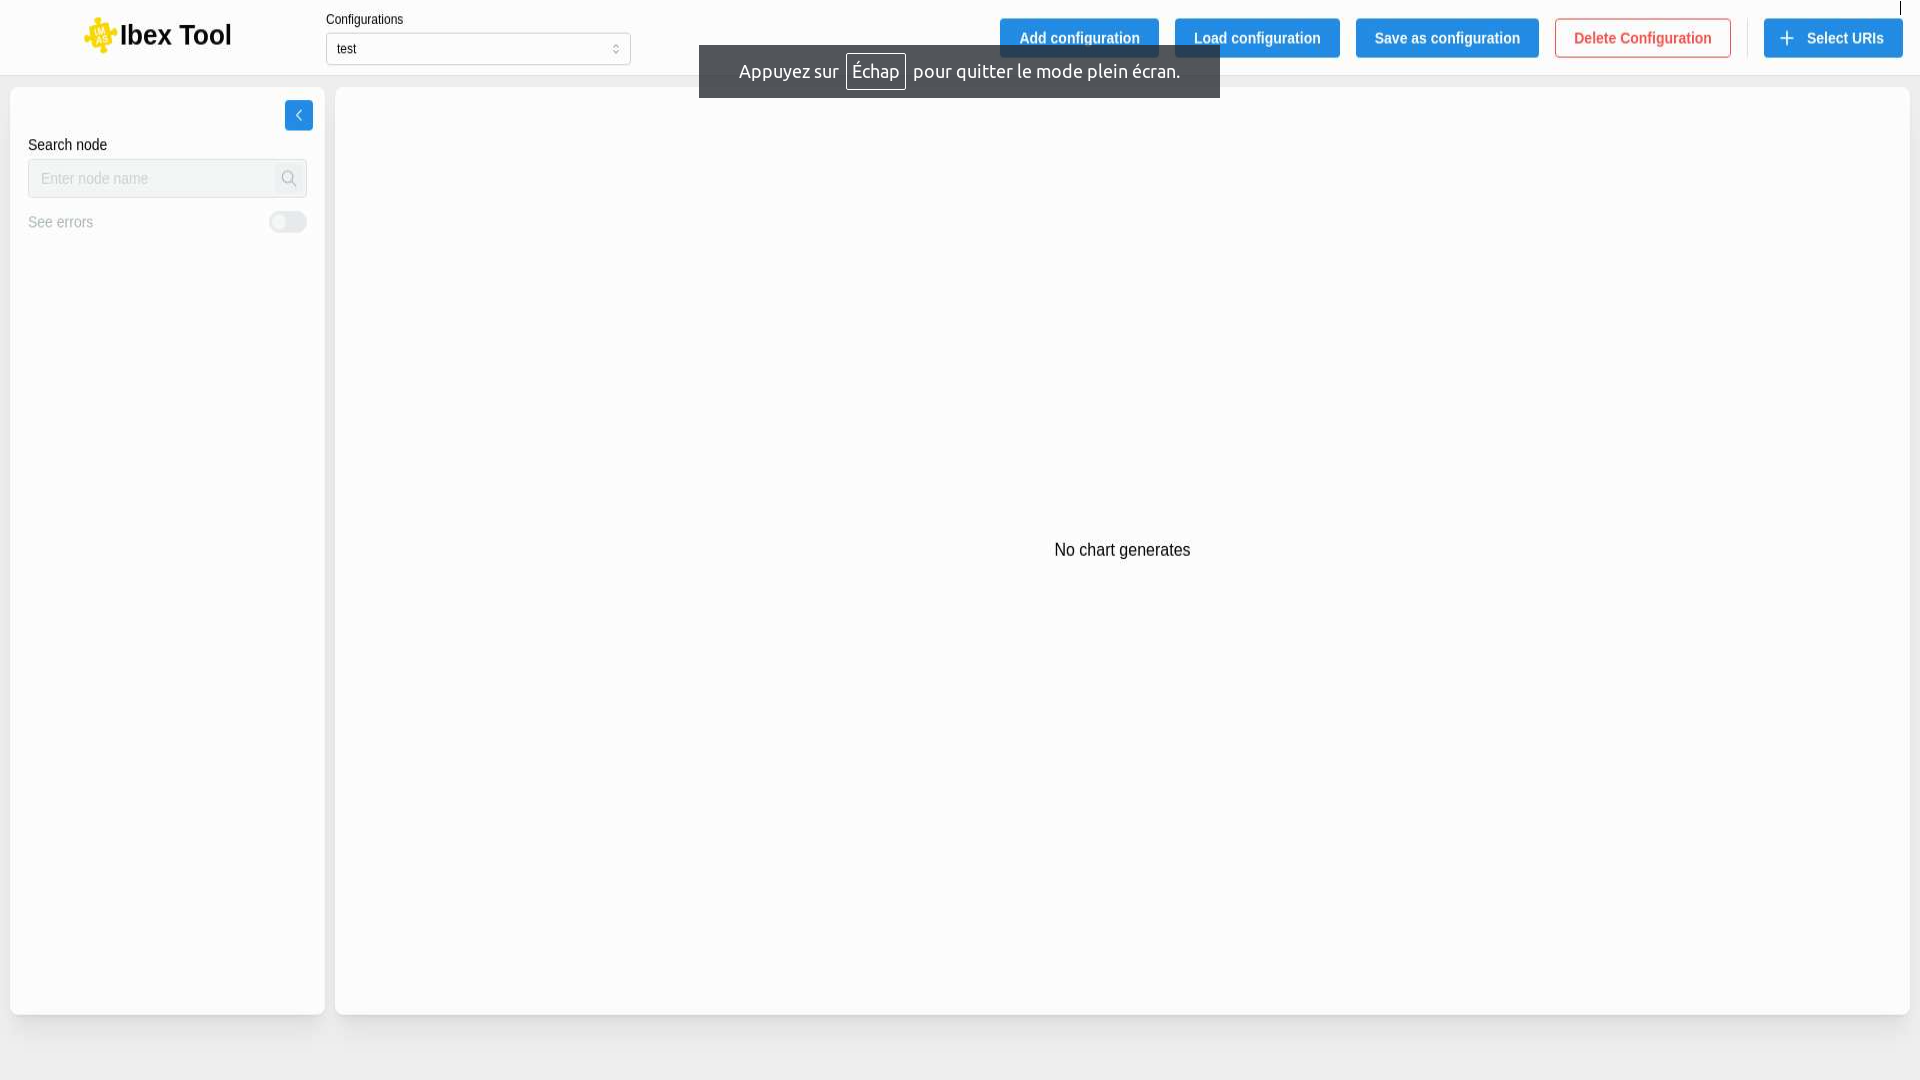
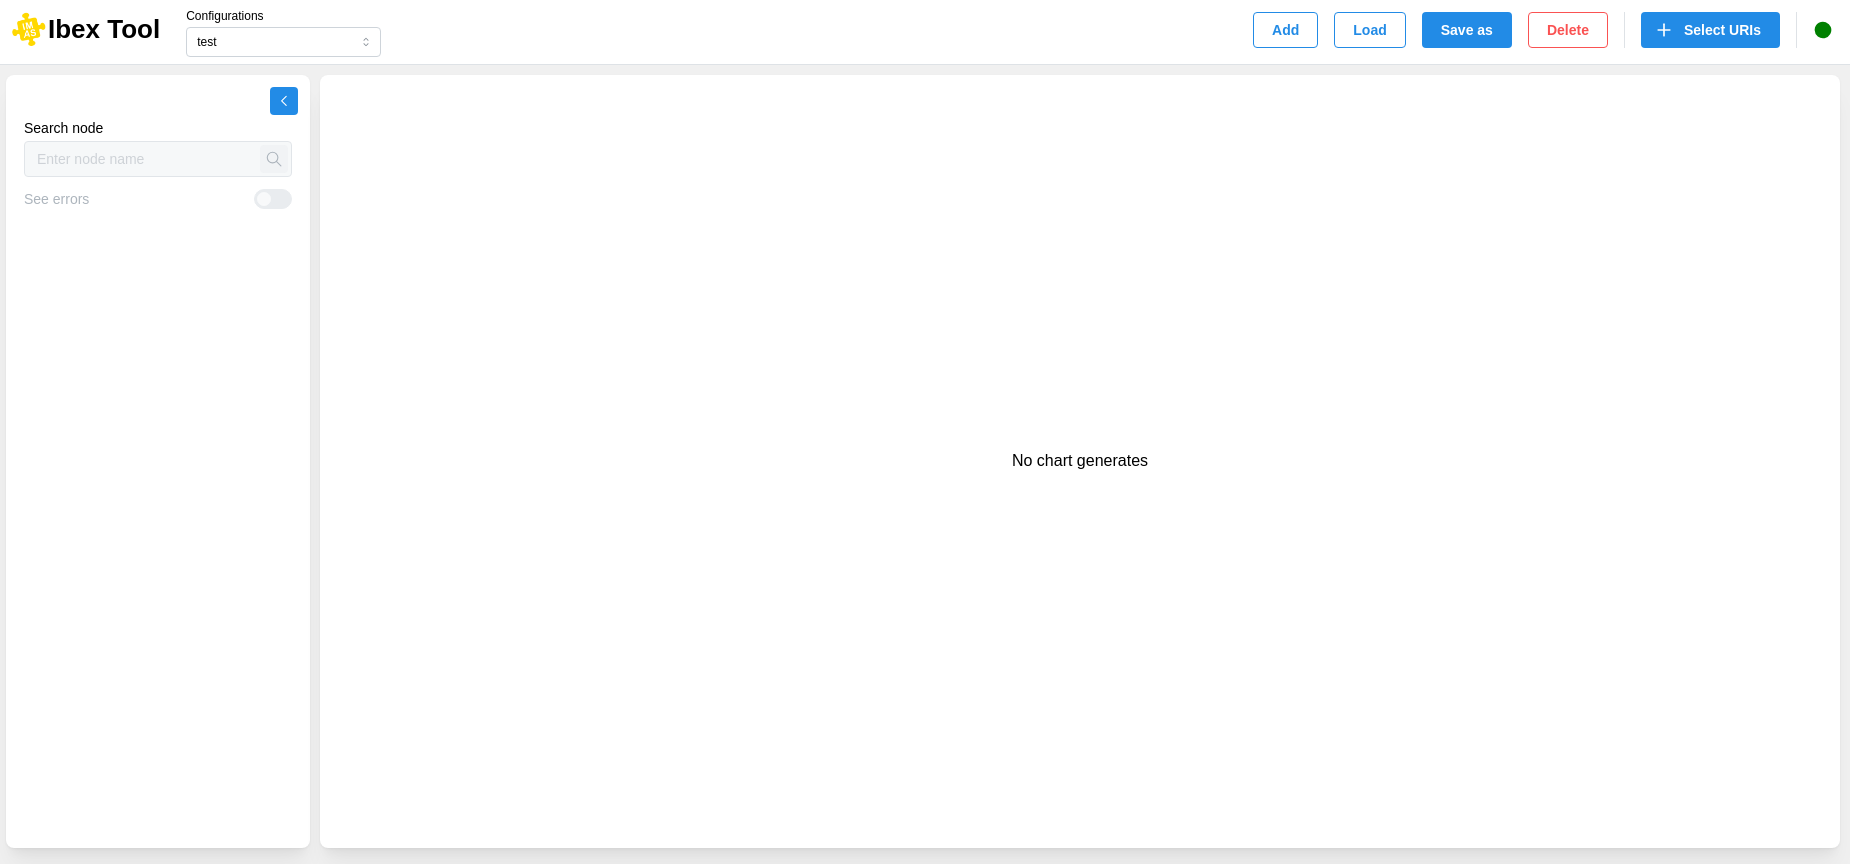
in-progress: improve user doc

diff --git a/docs/source/users_manual/features/load_configuration.rst b/docs/source/users_manual/features/load_configuration.rst
@@ -4,13 +4,13 @@
 Load configuration
 ===================
 
-To load an existing local configuration, you can use the “Load configuration” button to find the corresponding “.json” file using the file explorer. This configuration reflects the state of your application at the time of the last save.
+To load an existing local configuration, you can use the “Load” button to find the corresponding “.json” file using the file explorer. This configuration reflects the state of your application at the time of the last save.
 
 .. image:: images/load_configuration.png
    :alt: First ibex window
    :align: center
 
-Make sure to save your configuration so you can load it later and pick up right where you left off. 
+Make sure to save your configuration by clicking the “Save” button so that you can load it later and pick up right where you left off. 
 
 When loading a configuration, the data must match the expected JSON format to be valid.
  

diff --git a/docs/source/users_manual/features/add_configuration.rst b/docs/source/users_manual/features/add_configuration.rst
@@ -4,10 +4,17 @@
 Add configuration
 ===================
 
-The “Add configuration” button allows you to create a new configuration; you just need to provide a name for it.
+The “Add” button allows you to create a new configuration; you just need to provide a name for it.
 
 .. image:: images/create_configuration.png
    :alt: Create ibex configuration
    :align: center
 
-   
+It is possible to create a configuration from a template. To do this, you must tick the “Use template” box and then select a configuration file.
+
+There are two ways to do this:
+
+* The first is to select a configuration from a list of predefined folders in the user preferences (see :doc:`Preferences <preferences_menu>`).
+* The second option is to select a local file directly from your machine.
+
+Once the configuration has been created, it will then be necessary to add URIs (see :doc:`Add uri <add_uri>`).

diff --git a/docs/source/users_manual/features/first_window.rst b/docs/source/users_manual/features/first_window.rst
@@ -10,8 +10,10 @@ At the launch of the application, you will see this window:
    :alt: First ibex window
    :align: center
 
-On this screen, you will be required to either create a new configuration (“:doc:`Add configuration <add_configuration>`”) or load an existing one from your local machine (“:doc:`Load configuration <load_configuration>`”).
+On this screen, you will be required to either create a new configuration (“:doc:`Add <add_configuration>`”) or load an existing one from your local machine (“:doc:`Load <load_configuration>`”).
 
 The commands at the top left, before the separator, allow you to manage your current configuration (create, save, delete). You can switch between configurations using the selection menu.
 
 To the right of the separator, you can add new URIs (see :doc:`Add uri <add_uri>`).
+
+On the far right, a dot indicates the server status.

diff --git a/docs/source/users_manual/features/plot_data.rst b/docs/source/users_manual/features/plot_data.rst
@@ -18,6 +18,6 @@ For certain time-dependent data, one or more sliders will be available to visual
    :alt: Plot data with slider
    :align: center
 
-By default, the chart title is generated using the node's name, unit, and associated URI. Y-axes are labeled with the unit, and the X-axis is labeled with the name used to retrieve coordinates. Each data series is distinguished by a default color.
+By default, the chart title is generated using the node's name, unit, and associated URI. The Y-axes are labelled with the name of the first plotted plot and their unit. Finally, the X-axis is labeled with the name used to retrieve coordinates and his unit. Each data series is distinguished by a default color.
 
 

diff --git a/docs/source/users_manual/features.rst b/docs/source/users_manual/features.rst
@@ -10,8 +10,8 @@ Description of features
 
    features/first_window
    features/add_configuration
-   features/load_configuration
    features/add_uri
+   features/load_configuration
    features/tree
    features/plot_data
    features/draggable_component
@@ -19,3 +19,4 @@ Description of features
    features/save_configuration
    features/configuration_file
    features/delete_configuration
+   features/preferences_menu

diff --git a/docs/source/users_manual/features/add_uri.rst b/docs/source/users_manual/features/add_uri.rst
@@ -20,7 +20,7 @@ To add a URI, you can click the “Select URIs” button at the top right of the
 
 Thanks to this modal, you can retrieve URIs in different ways :
 
-**From a file (Upload local dataset) (This feature is currently under development):**
+**From a file (Upload local dataset):**
 
 Upload a file using the input from the file explorer, and then the list of URIs will appear in the table below.
 

diff --git a/docs/source/users_manual/features/preferences_menu.rst b/docs/source/users_manual/features/preferences_menu.rst
@@ -1,0 +1,7 @@
+.. _`Preferences menu`:
+
+===================
+Preferences menu
+===================
+
+TODO : describe this feature
